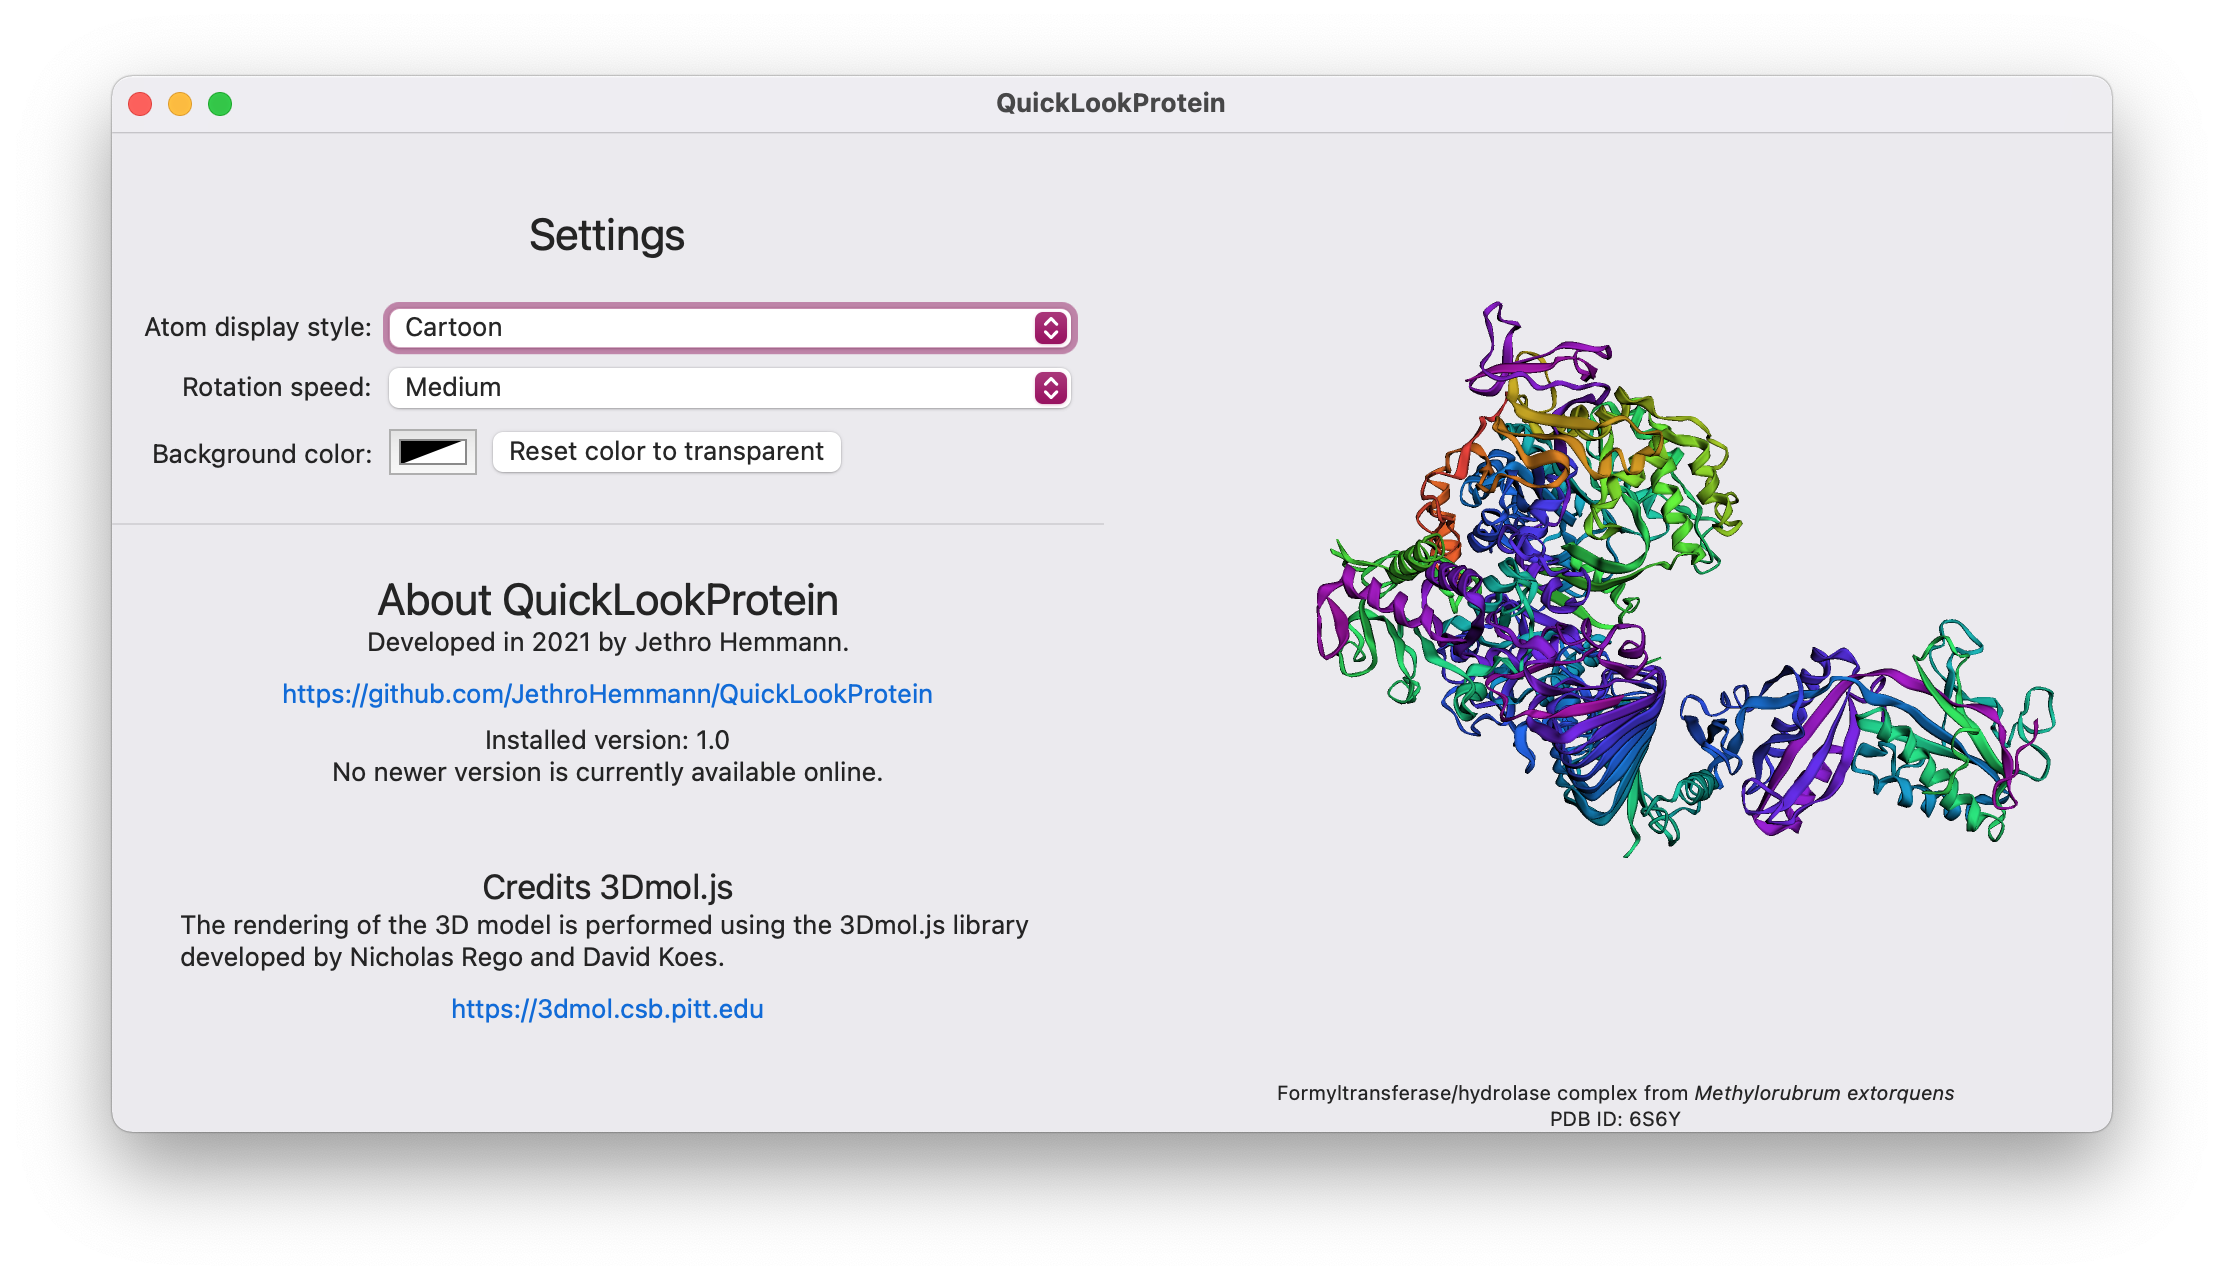
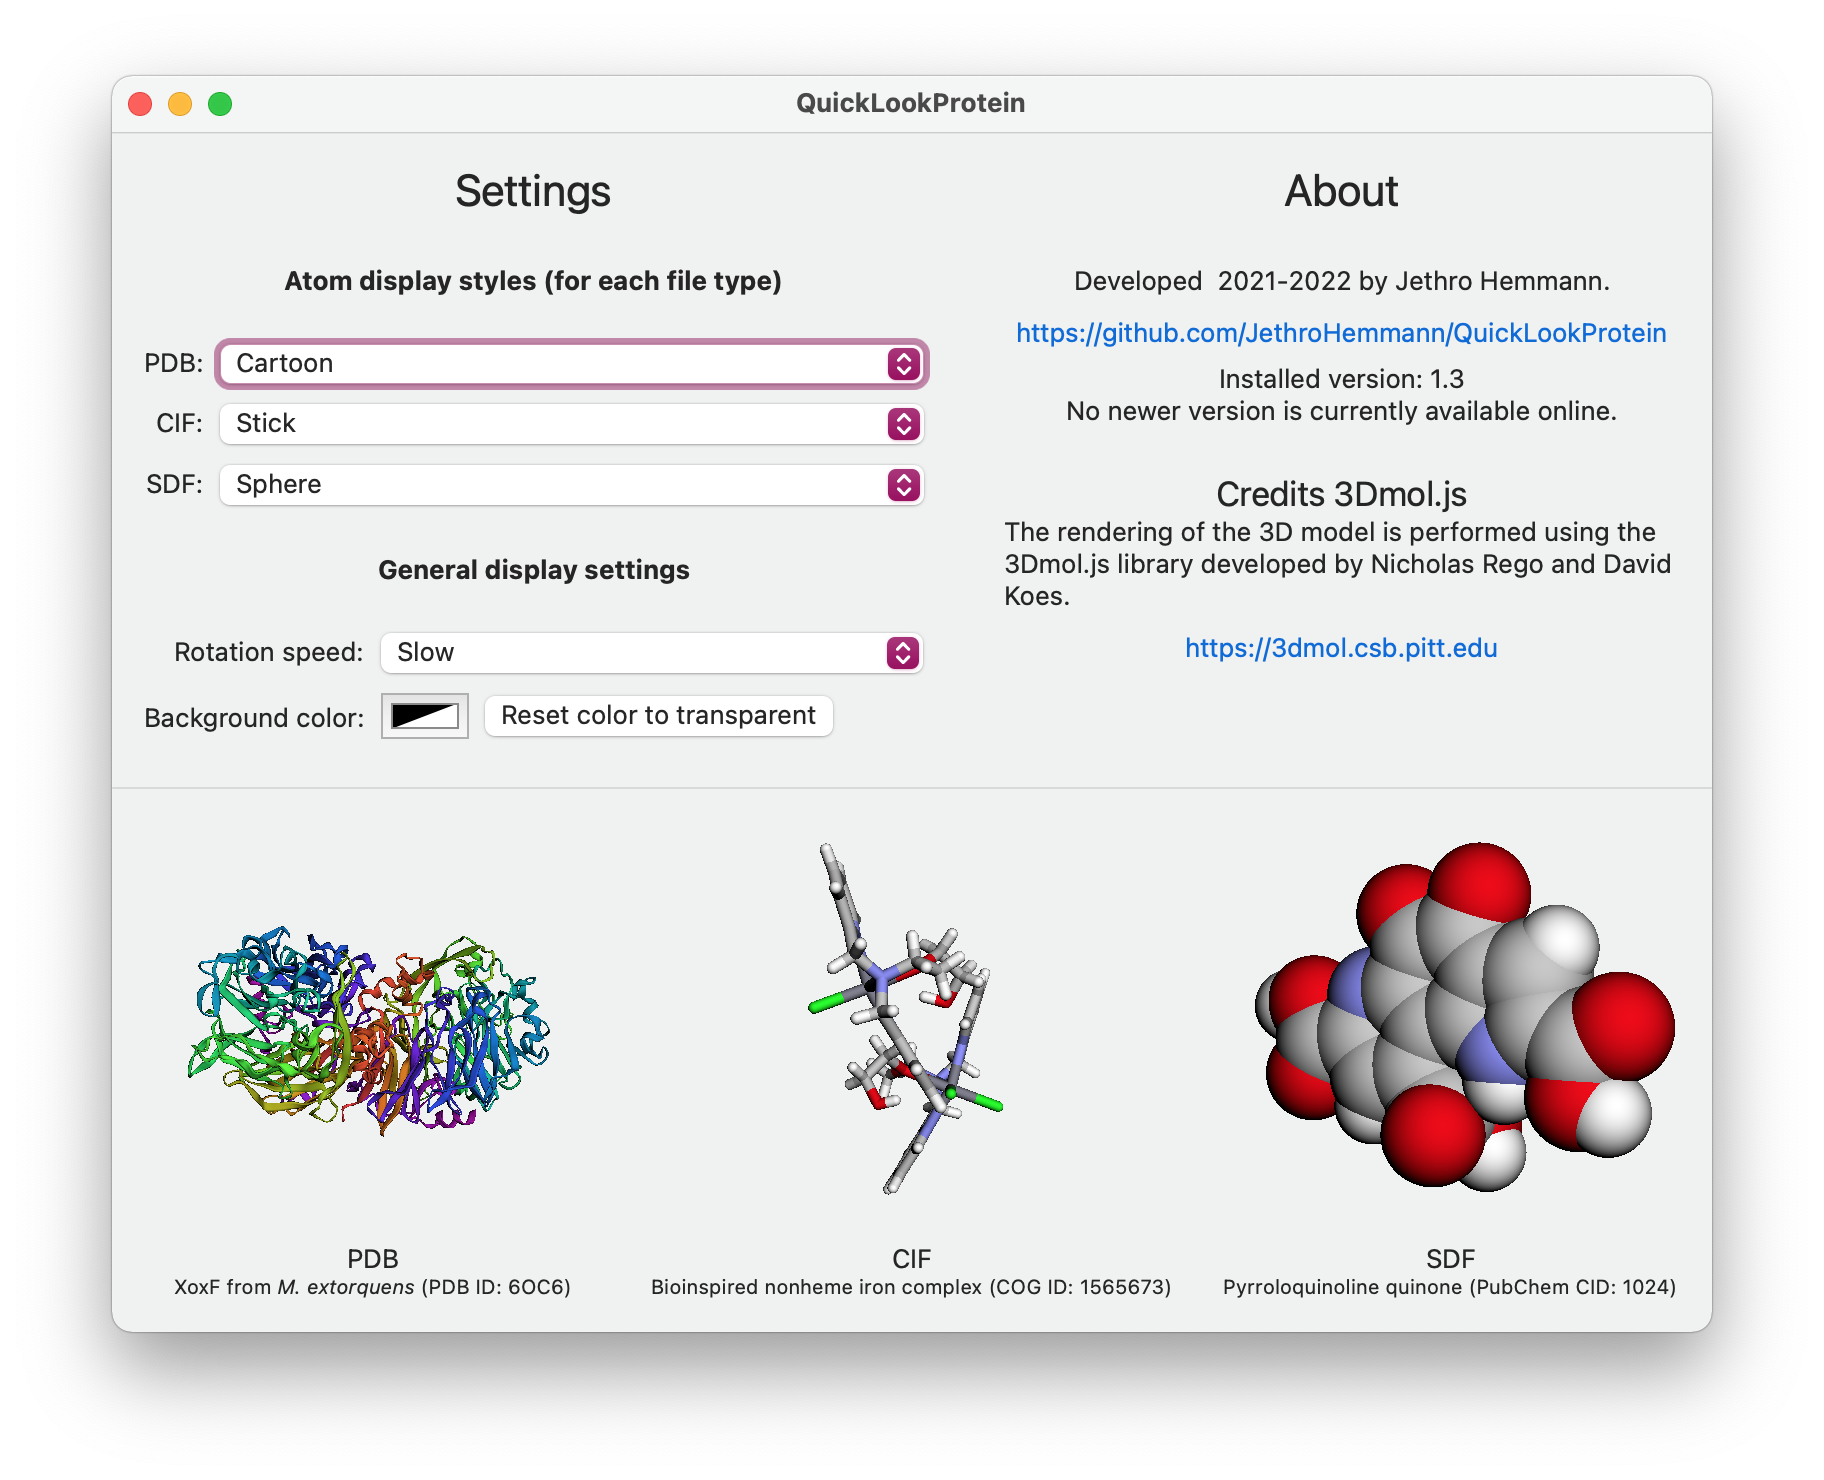
updated docu for v1.3

diff --git a/README.md b/README.md
@@ -46,11 +46,11 @@ mdls -name kMDItemContentType filename.ext
 
 ### Settings
 
-The main app allows the customization of the rendering of the 3D structure. Currently, the following settings can be changed (default values in bold):
+The main app allows the customization of the rendering of the 3D structure. Currently, the following settings can be changed:
 
-- Atom display style (**cartoon**, line, stick, sphere)
-- Rotation speed (no rotation, slow, **medium**, fast)
-- Background color (any color, or **transparent**)
+- Atom display style for each file type (cartoon, line, stick, sphere)
+- Rotation speed (no rotation, slow, medium, fast)
+- Background color (any color, or transparent)
 
 Note that the *cartoon* style only works for proteins.
 
@@ -58,7 +58,7 @@ In future releases and depending on user feedback, I might implement additional 
 
 ## Implementation details
 
-The code is written using Swift 5 in Xcode 12.5.
+The code is written using Swift 5 in Xcode 13.
 
 The Quick Look extension displays a Webkit view that uses some simple HTML and the [3Dmol.js](https://3dmol.csb.pitt.edu) library to render the 3D structure.
 
